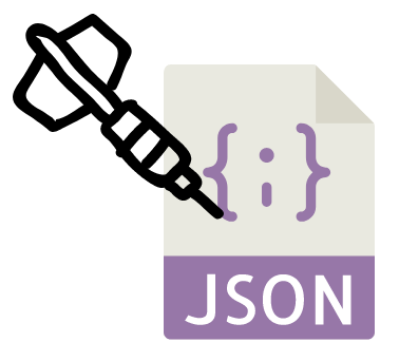
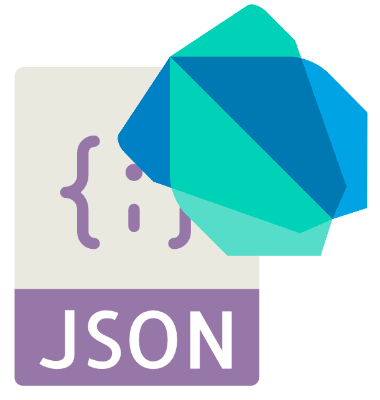
updated read me

diff --git a/README.md b/README.md
@@ -4,9 +4,24 @@
 
 ## Features
 
-#### Convert from clipboard (`Shift + Ctrl + Alt + V`)
+#### Convert from clipboard
+- convert json you copied in to dart model classes.
 
-#### Convert from selection (`Shift + Ctrl + Alt + S`)
+#### Convert from selection
+- convert json you selected in to dart model classes.
+
+### How to use
+1. Select a valid json.Press `Shift + Ctrl + P` and search for `Convert from Selection`. Provide a Base class name and location to save.
+
+2. Copy a valid json.Press `Shift + Ctrl + P` and search for `Convert from Clipboard`. Provide a Base class name and location to save.
+
+3. Useing short cuts 
+
+## Key bindings
+
+Convert from clipboard (`Shift + Ctrl + Alt + V`)
+
+Convert from selection (`Shift + Ctrl + Alt + S`)
 
 ## Converter
 
@@ -22,7 +37,11 @@
 
 ---
 
-Solution: `sudo apt-get install xclip`
+Solution: 
+
+```console
+    sudo apt-get install xclip
+```
 
 Happens when linux is missing clipboard packages
 

diff --git a/CHANGELOG.md b/CHANGELOG.md
@@ -1,9 +1,22 @@
-# Change Log
+# Changelog
+All notable changes to this project will be documented in this file.
 
-All notable changes to the "json-to-dart" extension will be documented in this file.
+The format is based on [Keep a Changelog](https://keepachangelog.com/en/1.0.0/),
+and this project adheres to [Semantic Versioning](https://semver.org/spec/v2.0.0.html).
 
-Check [Keep a Changelog](http://keepachangelog.com/) for recommendations on how to structure this file.
+## [Released]
 
-## [Unreleased]
+## [1.2.0] - 2020-03-23
 
-- Initial release
+### Fixed
+ - fixed error when null values appear
+
+### Added
+ - display errors added
+
+### Changed
+- icon changed
+
+## [1.1.0] - 2020-03-22
+### Added
+ - Json convert to dart models
